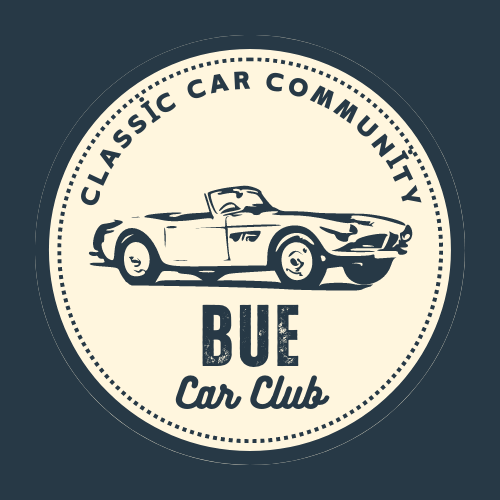
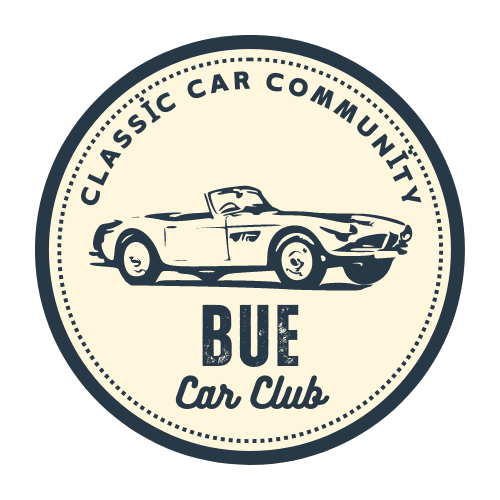
navbar düzenlenmesi tamamlandı.

diff --git a/src/index.css b/src/index.css
@@ -3,8 +3,9 @@ body {
   font-family: -apple-system, BlinkMacSystemFont, "Segoe UI", "Roboto", "Oxygen",
     "Ubuntu", "Cantarell", "Fira Sans", "Droid Sans", "Helvetica Neue",
     sans-serif;
-  -webkit-font-smoothing: antialiased;
-  -moz-osx-font-smoothing: grayscale;
+  /* -webkit-font-smoothing: antialiased;
+  -moz-osx-font-smoothing: grayscale; */
+  font-style: oblique;
 }
 code {
   font-family: source-code-pro, Menlo, Monaco, Consolas, "Courier New",
@@ -29,24 +30,33 @@ code {
   font-weight: 800;
 }
 .logo img {
+  width: 220px;
+  height: 220px;
+  border-radius: 50%;
+  margin-top: -60px;
+ 
 
 }
 .topNav .navItems {
-  margin-right: 1%;
+  margin-right: 2%;
+  margin-top: 1%;
+  
  
 }
 .topNav .navItems a {
   margin-right: 1em;
-  color: #111;
+  color: #273946;
+  font-size: 35px;
+  
 }
 .topNav .navItems a:hover {
-  color: orange;
+  color: #fff6de;
 }
 /*header*/
 /*CarMain1*/
 .welcomeMain {
   display: flex;
-  margin: 4% 4%;
+  margin: 2% 2%;
   border-radius: 10px;
   background-image: url("https://images.pexels.com/photos/52500/horse-herd-fog-nature-52500.jpeg?auto=compress&cs=tinysrgb&w=1260&h=750&dpr=1");
   background-repeat: no-repeat;
@@ -58,8 +68,8 @@ code {
 }
 
 .welcomeMain .welcomeLeft {
-  padding-top: 10%;
-  width: 50%;
+  padding-top: 20%;
+  width: 60%;
 }
 
 .welcomeMain .welcomeRight {

diff --git a/src/components/CarTable/CarNav/CarNav.js b/src/components/CarTable/CarNav/CarNav.js
@@ -1,13 +1,13 @@
 import React from 'react'
-import BUE from "../../../resimler/BUE-2.png"
+import BUE from "../../../resimler/BUE-3.jpg"
 
 const CarHeader = () => {
   return (
     <div className='navBar'>
       <div className='topNav'>
         <div className='logo'>
-         {/* <img src={BUE} alt="logo" /> */}
-         <h1>BUE CAR CLUB</h1>
+         <img src={BUE} alt="logo" /> 
+         {/* <h1>BUE CAR CLUB</h1> */}
         </div>
         <div className='navItems'>
         <span >  <a href="#welcome">Home</a></span>
